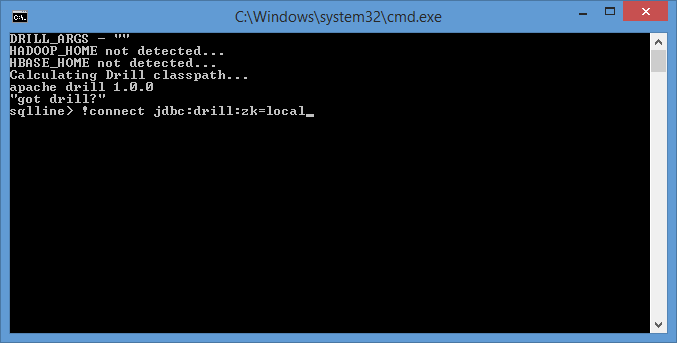
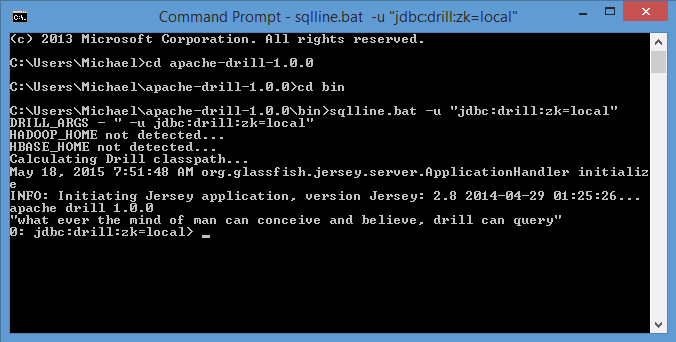
add screenshot, clarification

diff --git a/_docs/install/installing-drill-in-embedded-mode/050-starting-drill-on-windows.md b/_docs/install/installing-drill-in-embedded-mode/050-starting-drill-on-windows.md
@@ -4,17 +4,20 @@ parent: "Installing Drill in Embedded Mode"
 ---
 Start the Drill shell using the **sqlline command**. The `zk=local` means the local node is the ZooKeeper node. Complete the following steps to launch the Drill shell:
 
-1. Open the apache-drill-0.1.0 folder.  
-2. Go to the bin directory.
-2. Open Command Prompt and type the following command on the command line:
+1. Open Command Prompt.
+2. Open the apache-drill-1.0.0 folder. For example:  
+   ``cd apache-drill-1.0.0``
+3. Go to the bin directory. For example:  
+   ``cd bin``
+4. Type the following command on the command line:
    ``sqlline.bat -u "jdbc:drill:zk=local"``
-3. Enter the username, `admin`, and password, also `admin` when prompted.
-   The `0: jdbc:drill:zk=local>` prompt appears.
+   ![drill install dir]({{ site.baseurl }}/docs/img/sqlline1.png)
+
 At this point, you can [submit queries]({{ site.baseurl }}/docs/drill-in-10-minutes#query-sample-data) to Drill.
 
 You can use the schema option in the **sqlline** command to specify a storage plugin. Specifying the storage plugin when you start up eliminates the need to specify the storage plugin in the query: For example, this command specifies the `dfs` storage plugin.
 
-    c:\bin\sqlline sqlline.bat –u "jdbc:drill:schema=dfs;zk=local"
+    C:\bin\sqlline sqlline.bat –u "jdbc:drill:schema=dfs;zk=local"
 
 ## Exiting the Drill Shell
 
